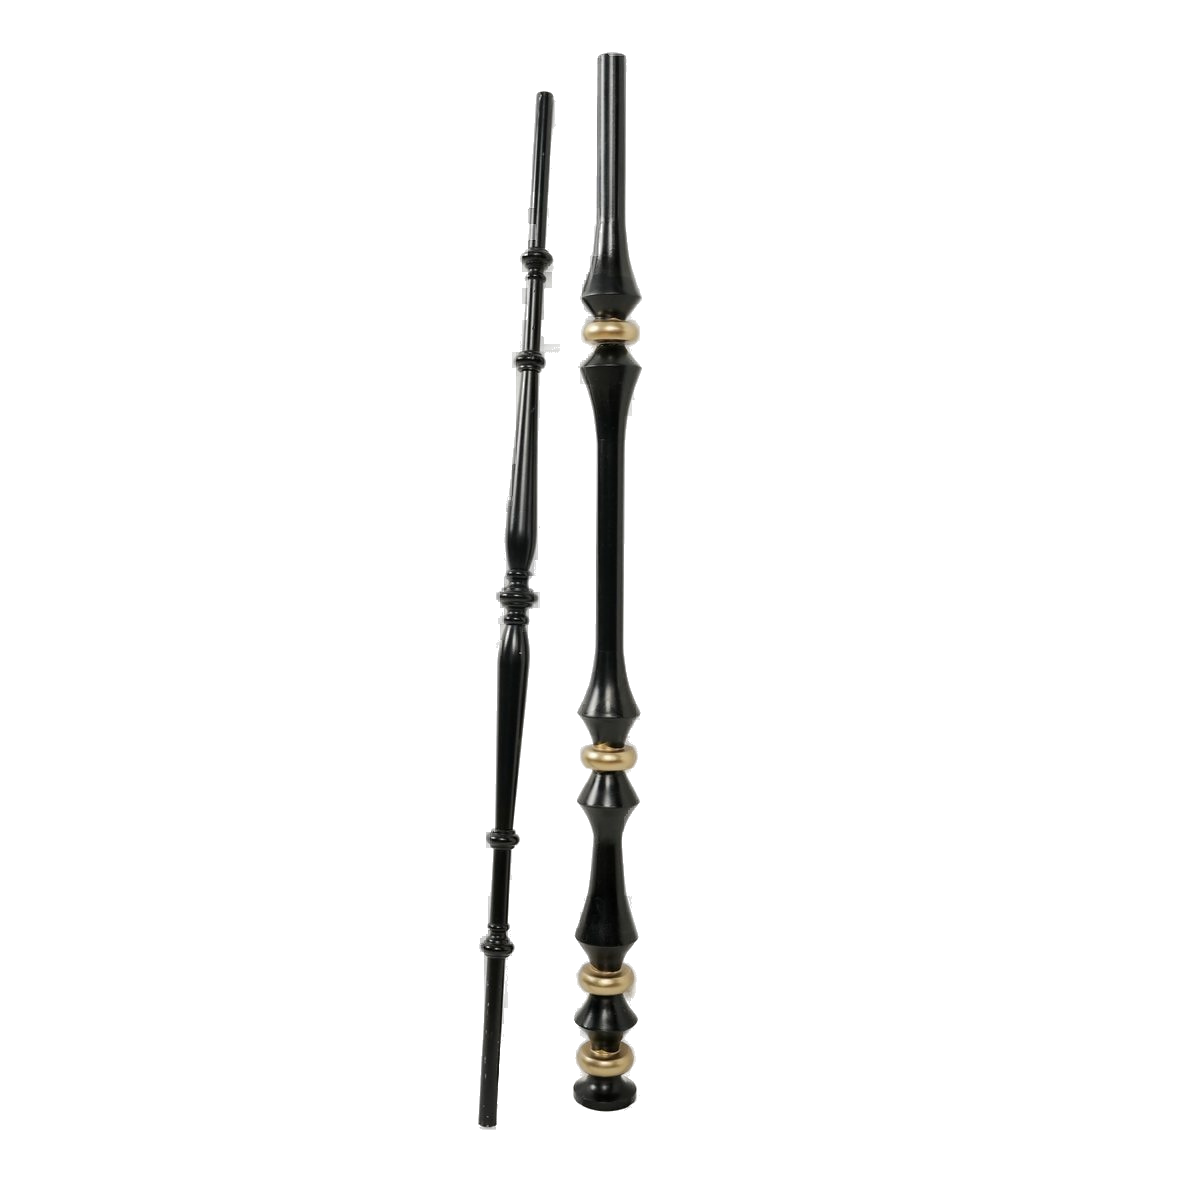
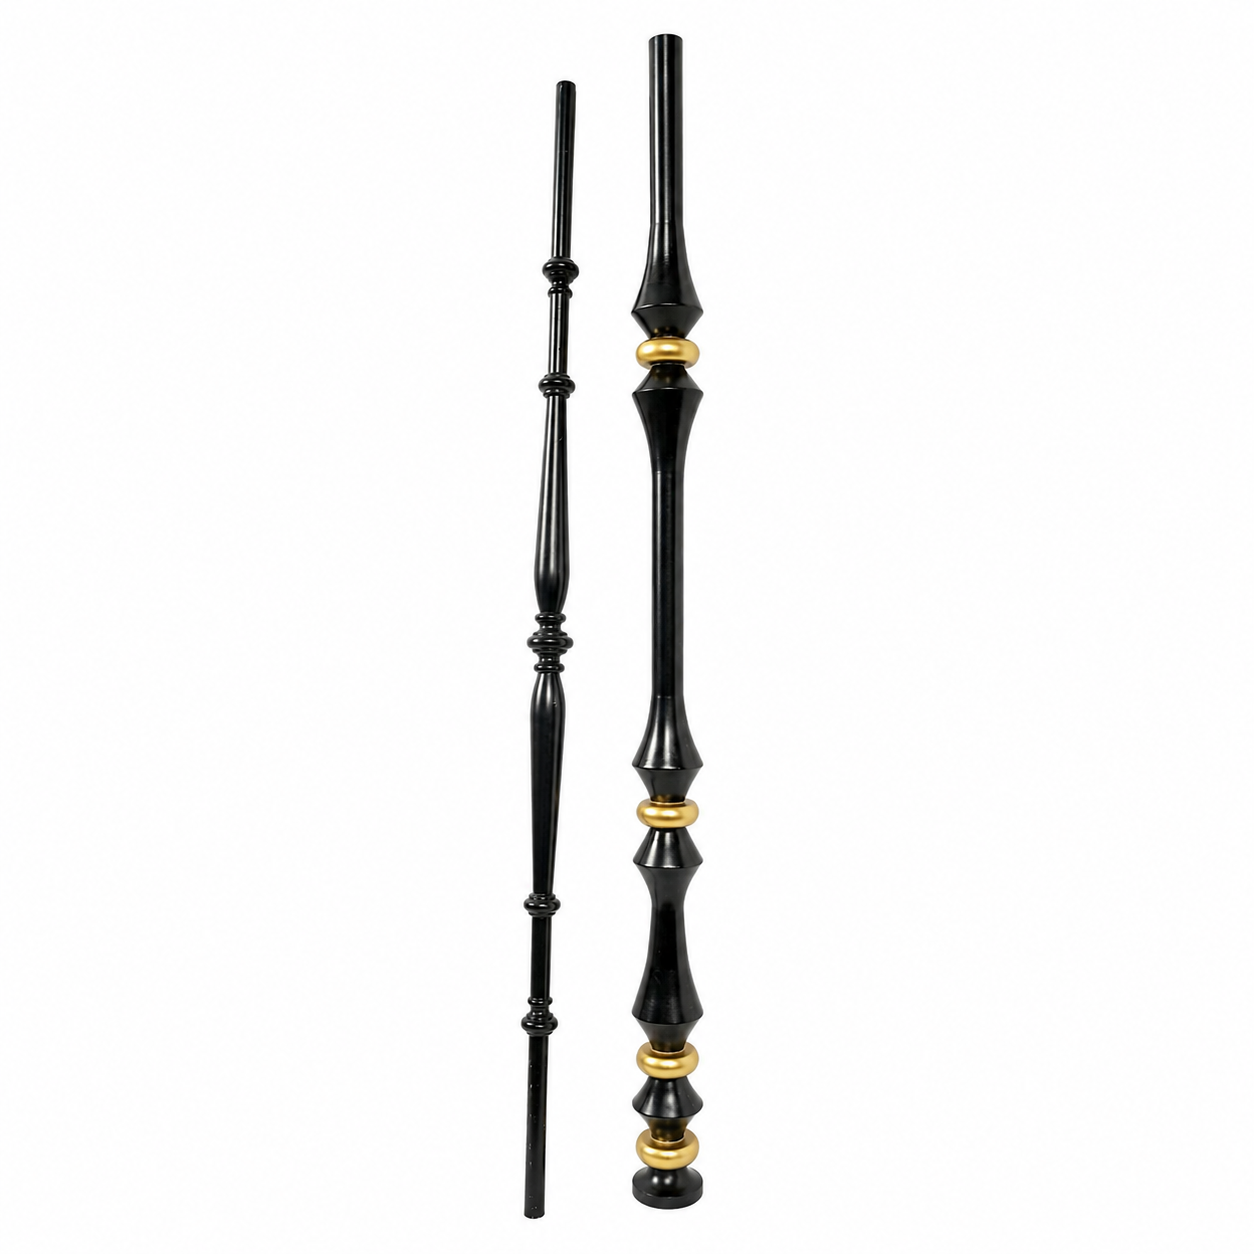
Replace updated MetalX product images

Changed region(s): [[0.4008, 0.0308, 0.5858, 0.9867]]

diff --git a/products.html b/products.html
@@ -832,7 +832,7 @@
             <div class="container">
                 <div class="products-grid" id="productsGrid">
                     <div class="px-card" data-cat="railings" data-img="images/products/balusters/square-baluster.png"
-                        data-thumbs="images/products/balusters/square-baluster.png|images/products/white-bg-images/1.jpg"
+                        data-thumbs="images/products/balusters/square-baluster.png|images/products/white-bg-images/1.png"
                         data-name="Square Baluster" data-cat-label="Railings"
                         data-desc="Square hollow section, clean 90° profile ideal for modern railings and balustrades."
                         data-specs="<tr><td>Material</td><td>Brass</td></tr><tr><td>Profile</td><td>Customisable as per requirement</td></tr><tr><td>Size</td><td>Customisable as per requirement</td></tr><tr><td>Height</td><td>Customisable as per requirement</td></tr><tr><td>Finish</td><td>Customisable as per requirement</td></tr><tr><td>Application</td><td>Stairs, balconies, fencing</td></tr>">
@@ -847,7 +847,7 @@
                         </div>
                     </div>
                     <div class="px-card" data-cat="railings" data-img="images/products/balusters/round-baluster.png"
-                        data-thumbs="images/products/balusters/round-baluster.png|images/products/white-bg-images/2.jpg"
+                        data-thumbs="images/products/balusters/round-baluster.png|images/products/white-bg-images/2.png"
                         data-name="Round Baluster" data-cat-label="Railings"
                         data-desc="Classic round bar profile. Timeless, structural, and available in multiple diameters."
                         data-specs="<tr><td>Material</td><td>Iron</td></tr><tr><td>Profile</td><td>Customisable as per requirement</td></tr><tr><td>Size</td><td>Customisable as per requirement</td></tr><tr><td>Height</td><td>Customisable as per requirement</td></tr><tr><td>Finish</td><td>Customisable as per requirement</td></tr><tr><td>Application</td><td>Staircases, garden fencing</td></tr>">
@@ -861,7 +861,7 @@
                         </div>
                     </div>
                     <div class="px-card" data-cat="railings" data-img="images/products/balusters/twist-baluster.png"
-                        data-thumbs="images/products/balusters/twist-baluster.png|images/products/white-bg-images/3.jpg|images/products/white-bg-images/3-1.jpg"
+                        data-thumbs="images/products/balusters/twist-baluster.png|images/products/white-bg-images/3.png|images/products/white-bg-images/3-1.png"
                         data-name="Twist Baluster" data-cat-label="Railings"
                         data-desc="Hand-forged single twist pattern. A classic of wrought-iron craftsmanship — timeless in heritage and contemporary settings."
                         data-specs="<tr><td>Material</td><td>Iron</td></tr><tr><td>Profile</td><td>Customisable as per requirement</td></tr><tr><td>Size</td><td>Customisable as per requirement</td></tr><tr><td>Height</td><td>Customisable as per requirement</td></tr><tr><td>Finish</td><td>Customisable as per requirement</td></tr><tr><td>Application</td><td>Heritage stairs, classical railings</td></tr>">
@@ -875,7 +875,7 @@
                         </div>
                     </div>
                     <div class="px-card" data-cat="railings" data-img="images/products/balusters/knuckle-baluster.png"
-                        data-thumbs="images/products/balusters/knuckle-baluster.png|images/products/white-bg-images/4.jpg"
+                        data-thumbs="images/products/balusters/knuckle-baluster.png|images/products/white-bg-images/4.png"
                         data-name="Knuckle Baluster" data-cat-label="Railings"
                         data-desc="Decorative knuckle joint midpoint adds structural character. Popular for traditional and transitional interiors."
                         data-specs="<tr><td>Material</td><td>Iron</td></tr><tr><td>Profile</td><td>Customisable as per requirement</td></tr><tr><td>Size</td><td>Customisable as per requirement</td></tr><tr><td>Height</td><td>Customisable as per requirement</td></tr><tr><td>Finish</td><td>Customisable as per requirement</td></tr><tr><td>Application</td><td>Balconies, staircases, gates</td></tr>">
@@ -890,7 +890,7 @@
                         </div>
                     </div>
                     <div class="px-card" data-cat="railings" data-img="images/products/balusters/fluted-baluster.png"
-                        data-thumbs="images/products/balusters/fluted-baluster.png|images/products/white-bg-images/5.jpg"
+                        data-thumbs="images/products/balusters/fluted-baluster.png|images/products/white-bg-images/5.png"
                         data-name="Fluted Baluster" data-cat-label="Railings"
                         data-desc="Vertical fluting adds a classical column feel. Bridges modern minimalism with heritage detail."
                         data-specs="<tr><td>Material</td><td>Stainless Steel</td></tr><tr><td>Profile</td><td>Customisable as per requirement</td></tr><tr><td>Size</td><td>Customisable as per requirement</td></tr><tr><td>Height</td><td>Customisable as per requirement</td></tr><tr><td>Finish</td><td>Customisable as per requirement</td></tr><tr><td>Application</td><td>Luxury interiors, premium staircases</td></tr>">
@@ -905,7 +905,7 @@
                         </div>
                     </div>
                     <div class="px-card" data-cat="railings" data-img="images/products/balusters/basket-baluster.png"
-                        data-thumbs="images/products/balusters/basket-baluster.png|images/products/white-bg-images/6.jpg"
+                        data-thumbs="images/products/balusters/basket-baluster.png|images/products/white-bg-images/6.png"
                         data-name="Basket Baluster" data-cat-label="Railings"
                         data-desc="Intricate basket-weave centre — a hallmark of Victorian ironwork. Crafted individually for heritage projects."
                         data-specs="<tr><td>Material</td><td>Brass</td></tr><tr><td>Profile</td><td>Customisable as per requirement</td></tr><tr><td>Size</td><td>Customisable as per requirement</td></tr><tr><td>Height</td><td>Customisable as per requirement</td></tr><tr><td>Finish</td><td>Customisable as per requirement</td></tr><tr><td>Application</td><td>Heritage, conservation, Victorian</td></tr>">
@@ -937,7 +937,7 @@
                     </div>
                     <div class="px-card" data-cat="railings"
                         data-img="images/products/balusters/hollow-square-baluster.png"
-                        data-thumbs="images/products/balusters/hollow-square-baluster.png|images/products/white-bg-images/8.jpg"
+                        data-thumbs="images/products/balusters/hollow-square-baluster.png|images/products/white-bg-images/8.png"
                         data-name="Hollow Square Baluster" data-cat-label="Railings"
                         data-desc="Structural hollow square section, lightweight yet rigid. Clean profile for minimal modern railings."
                         data-specs="<tr><td>Material</td><td>Iron</td></tr><tr><td>Profile</td><td>Customisable as per requirement</td></tr><tr><td>Size</td><td>Customisable as per requirement</td></tr><tr><td>Height</td><td>Customisable as per requirement</td></tr><tr><td>Finish</td><td>Customisable as per requirement</td></tr><tr><td>Application</td><td>Commercial, residential, contemporary</td></tr>">
@@ -952,7 +952,7 @@
                         </div>
                     </div>
                     <div class="px-card" data-cat="railings" data-img="images/products/balusters/scroll-baluster.png"
-                        data-thumbs="images/products/balusters/scroll-baluster.png|images/products/white-bg-images/9.jpg|images/products/white-bg-images/9-1.jpg"
+                        data-thumbs="images/products/balusters/scroll-baluster.png|images/products/white-bg-images/9.png|images/products/white-bg-images/9-1.png"
                         data-name="Scroll Baluster" data-cat-label="Railings"
                         data-desc="Scroll ends add classical elegance without heavy ornamentation. Versatile — suits both traditional and transitional styles."
                         data-specs="<tr><td>Material</td><td>Brass</td></tr><tr><td>Profile</td><td>Customisable as per requirement</td></tr><tr><td>Size</td><td>Customisable as per requirement</td></tr><tr><td>Height</td><td>Customisable as per requirement</td></tr><tr><td>Finish</td><td>Customisable as per requirement</td></tr><tr><td>Application</td><td>Balconies, interior stairs, heritage</td></tr>">
@@ -1088,7 +1088,7 @@
                     </div>
                     <div class="px-card" data-cat="railings"
                         data-img="images/products/balusters/classic-pillar-baluster.png"
-                        data-thumbs="images/products/balusters/classic-pillar-baluster.png|images/products/white-bg-images/18.jpg|images/products/balusters/classic-pillar-baluster.png"
+                        data-thumbs="images/products/balusters/classic-pillar-baluster.png|images/products/white-bg-images/18.png|images/products/balusters/classic-pillar-baluster.png"
                         style="display:none" data-name="Classic Pillar Baluster" data-cat-label="Railings">
                         <div class="px-card-img">
                             <img src="images/products/balusters/classic-pillar-baluster.png"
@@ -1336,7 +1336,7 @@
                         </div>
                     </div>
                     <div class="px-card" data-cat="railings" data-img="images/products/balusters/Balusters-03.jpeg"
-                        data-thumbs="images/products/balusters/Balusters-03.jpeg|images/products/white-bg-images/18.jpg"
+                        data-thumbs="images/products/balusters/Balusters-03.jpeg|images/products/white-bg-images/18.png"
                         data-name="Curved Loop Frame Baluster" data-cat-label="Railings"
                         data-desc="Premium architectural baluster profile for custom railing and staircase applications."
                         data-specs="<tr><td>Material</td><td>Any metal</td></tr><tr><td>Profile</td><td>Customisable as per requirement</td></tr><tr><td>Size</td><td>Customisable as per requirement</td></tr><tr><td>Height</td><td>Customisable as per requirement</td></tr><tr><td>Finish</td><td>Customisable as per requirement</td></tr><tr><td>Application</td><td>Staircases, balconies, railings</td></tr>">

diff --git a/index.html b/index.html
@@ -704,7 +704,7 @@
 
                 <div class="px-card home-product-card" role="button" tabindex="0"
                     data-cat="railings" data-img="images/products/balusters/square-baluster.png"
-                    data-thumbs="images/products/balusters/square-baluster.png|images/products/white-bg-images/1.jpg"
+                    data-thumbs="images/products/balusters/square-baluster.png|images/products/white-bg-images/1.png"
                     data-name="Square Baluster" data-cat-label="Railings"
                     data-desc="Square hollow section, clean 90&deg; profile ideal for modern railings and balustrades."
                     data-specs="<tr><td>Material</td><td>Brass</td></tr><tr><td>Profile</td><td>Customisable as per requirement</td></tr><tr><td>Size</td><td>Customisable as per requirement</td></tr><tr><td>Height</td><td>Customisable as per requirement</td></tr><tr><td>Finish</td><td>Customisable as per requirement</td></tr><tr><td>Application</td><td>Stairs, balconies, fencing</td></tr>"
@@ -720,7 +720,7 @@
 
                 <div class="px-card home-product-card" role="button" tabindex="0"
                     data-cat="railings" data-img="images/products/balusters/twist-baluster.png"
-                    data-thumbs="images/products/balusters/twist-baluster.png|images/products/white-bg-images/3.jpg|images/products/white-bg-images/3-1.jpg"
+                    data-thumbs="images/products/balusters/twist-baluster.png|images/products/white-bg-images/3.png|images/products/white-bg-images/3-1.png"
                     data-name="Twist Baluster" data-cat-label="Railings"
                     data-desc="Hand-forged single twist pattern. A classic of wrought-iron craftsmanship &mdash; timeless in heritage and contemporary settings."
                     data-specs="<tr><td>Material</td><td>Iron</td></tr><tr><td>Profile</td><td>Customisable as per requirement</td></tr><tr><td>Size</td><td>Customisable as per requirement</td></tr><tr><td>Height</td><td>Customisable as per requirement</td></tr><tr><td>Finish</td><td>Customisable as per requirement</td></tr><tr><td>Application</td><td>Heritage stairs, classical railings</td></tr>"
@@ -736,7 +736,7 @@
 
                 <div class="px-card home-product-card" role="button" tabindex="0"
                     data-cat="railings" data-img="images/products/balusters/fluted-baluster.png"
-                    data-thumbs="images/products/balusters/fluted-baluster.png|images/products/white-bg-images/5.jpg"
+                    data-thumbs="images/products/balusters/fluted-baluster.png|images/products/white-bg-images/5.png"
                     data-name="Fluted Baluster" data-cat-label="Railings"
                     data-desc="Vertical fluting adds a classical column feel. Bridges modern minimalism with heritage detail."
                     data-specs="<tr><td>Material</td><td>Stainless Steel</td></tr><tr><td>Profile</td><td>Customisable as per requirement</td></tr><tr><td>Size</td><td>Customisable as per requirement</td></tr><tr><td>Height</td><td>Customisable as per requirement</td></tr><tr><td>Finish</td><td>Customisable as per requirement</td></tr><tr><td>Application</td><td>Luxury interiors, premium staircases</td></tr>"
